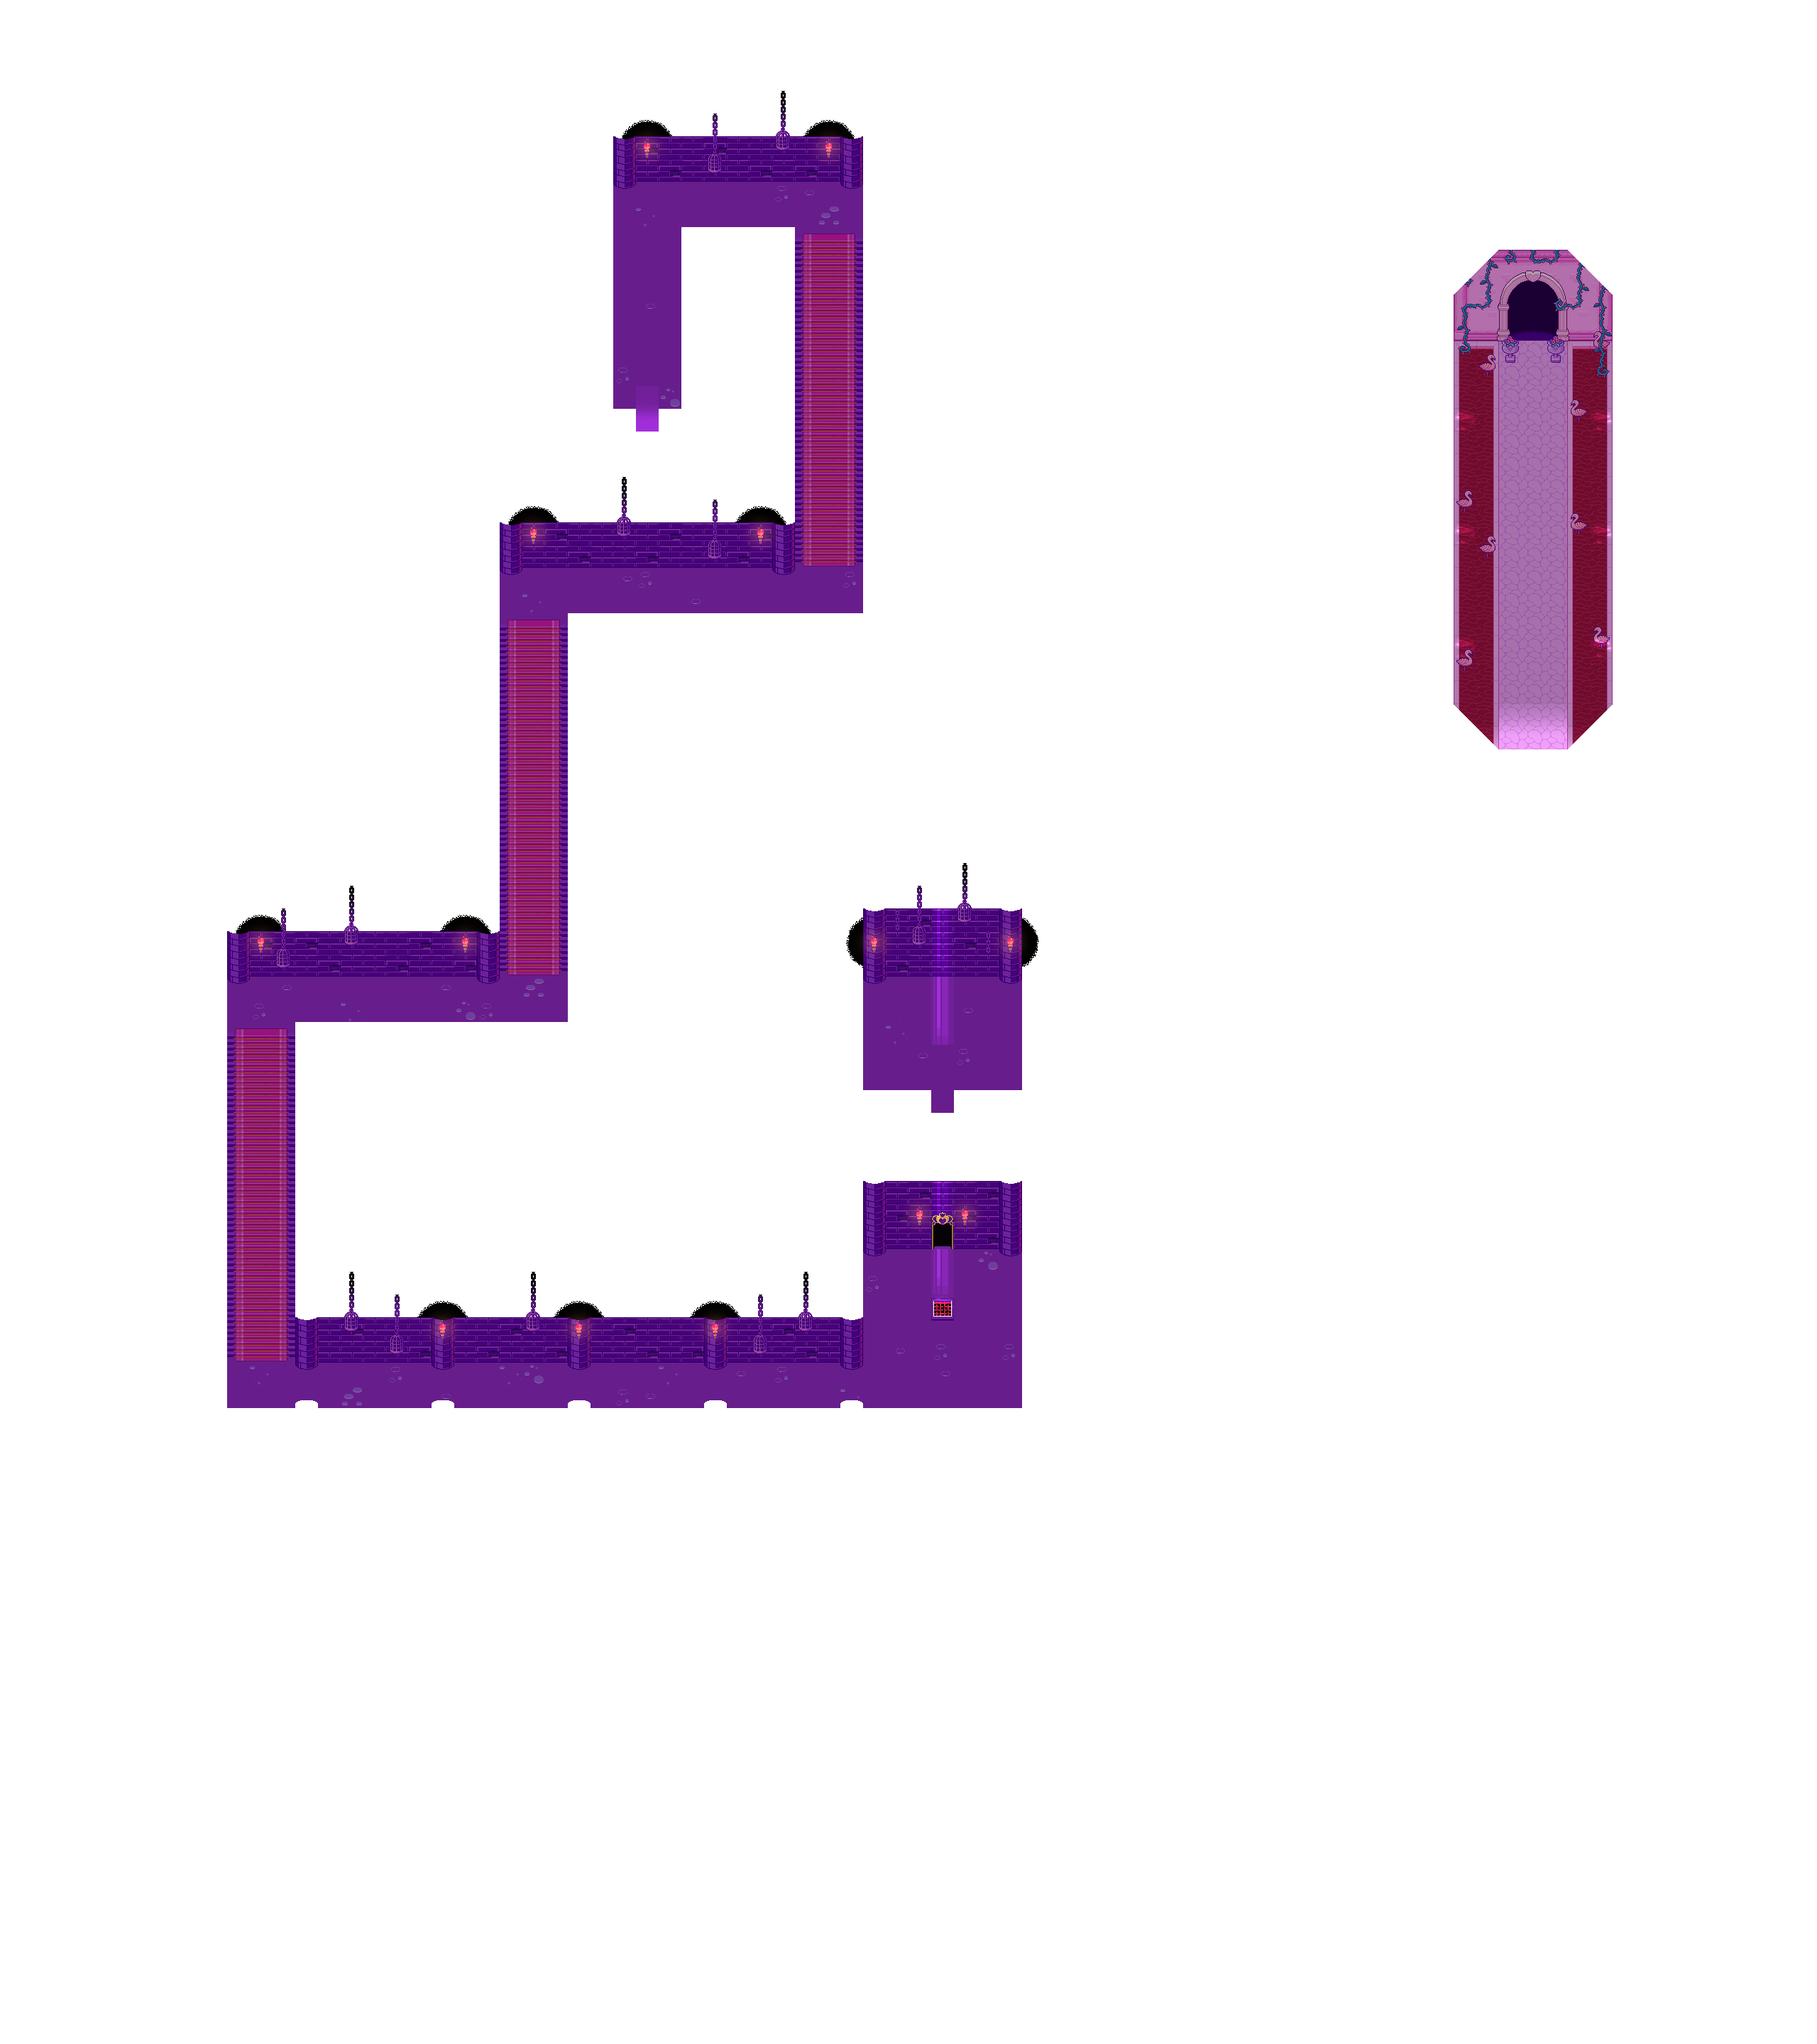
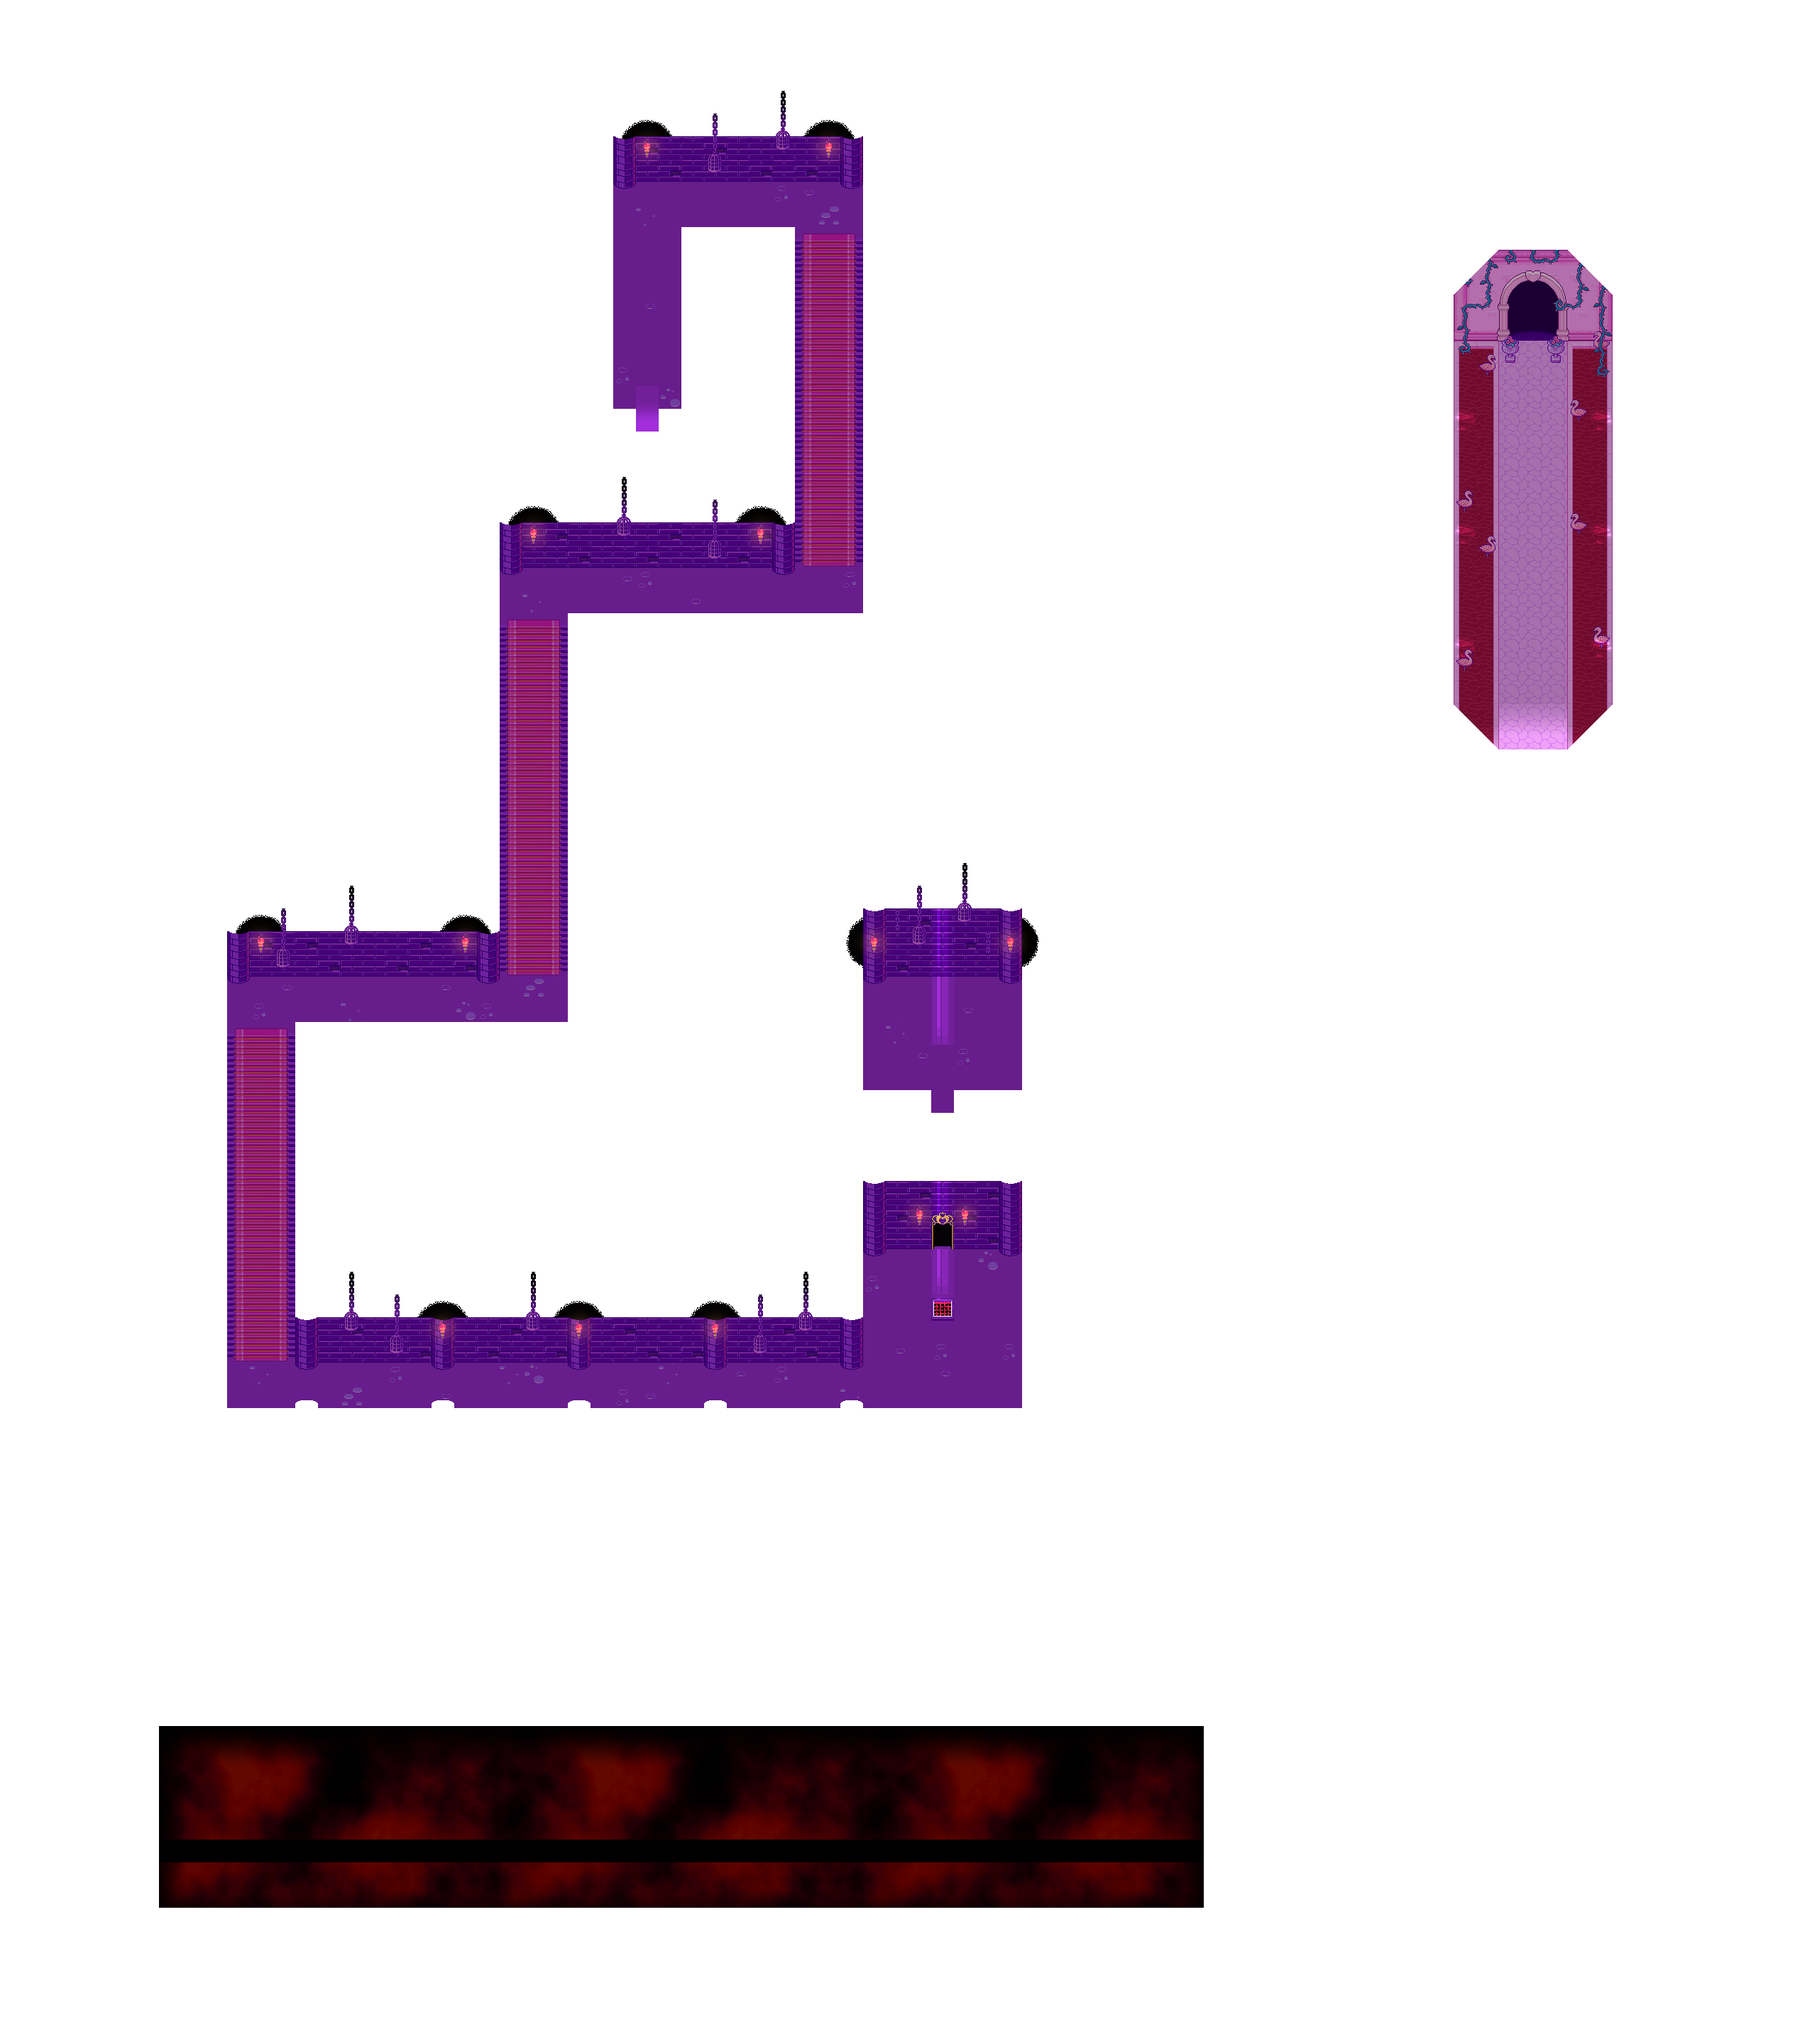
HEAVEN and HELL, the two rooms nobody could find
Someone reported two maps missing. There is no map in OMORI called either — the
name comes from the event. Map435 ev6 is called 'Heaven and Hell' in the game's
own data: stand on the red dais at (41, 57), inside the slice the atlas already
had, and six seconds later you are in a dark red corridor at the bottom of the
same map, six more and you are in a white one in map438. ev7 at (53, 81) walks
you back.

Two things had to go wrong at once for these to vanish, which is why nothing
looked broken. They are drawn by the maps' parallax rather than by tiles, so
goats.dev's tile renders have nothing there at all — map435's render is 10%
covered and that rectangle is 100% empty. And no slice was ever cut over them,
so even a correct render would not have reached the atlas.

45_render_missing_rooms.py draws them. 13 can, because it reads the game's data
and tiles the parallax underneath — but across the whole canvas, so its output
is opaque everywhere and cannot replace a render whose transparency is what
holds the rooms apart. 18 would clear the surplus and clears HELL with it, dark
enough to read as backdrop. So only the two rectangles are taken, composited
*under* what the render already has, which makes it safe to re-run.

The slices are 4354 and 4382, 46x8 and 46x9 tiles, in sweethearts_castle where
their parents are. The edge extractor picks the connection up on its own: ev6
now resolves to map4354 and map4382 instead of the unsliced parents.
[…]

Changed region(s): [[0.0625, 0.8438, 0.6875, 0.9375]]

diff --git a/scripts/01_extract_adjacency.js b/scripts/01_extract_adjacency.js
@@ -783,6 +783,13 @@ const PATCHES = {
       4351: { src: 435, name: '[dungeon main]', polygon: [[10,4],[45,4],[45,62],[10,62]] },
       4352: { src: 435, name: '[right corridor]', polygon: [[64,11],[71,11],[71,33],[64,33]] },
       4353: { src: 435, name: '[bottom small]',   polygon: [[37,38],[46,38],[46,49],[37,49]] },
+      // The easter egg. Stand on the red dais at (41, 57) — inside 4351 — for
+      // about six seconds and ev6, named 'Heaven and Hell', walks you through
+      // two corridors: this one first, then map438's. Neither is in goats.dev's
+      // render, because both are drawn by the map's parallax rather than by
+      // tiles, and neither had a slice, which is why the atlas had no trace of
+      // either. ev7 at (53, 81) is the way back to the dais.
+      4354: { src: 435, name: '[hell]', polygon: [[7,76],[53,76],[53,84],[7,84]] },
       // Map437 ALCOVES II — 9 main alcoves (skip noise alcove 7)
       4372: { src: 437, name: '[alcove 2]', polygon: [[26,3],[34,3],[34,16],[26,16]] },
       4375: { src: 437, name: '[alcove 5]', polygon: [[27,25],[34,25],[34,38],[27,38]] },
@@ -790,6 +797,8 @@ const PATCHES = {
       4378: { src: 437, name: '[alcove 9]', polygon: [[27,48],[34,48],[34,61],[27,61]] },
       // Map438 SWEETHEART DUNGEON 3 — 1 main room
       4381: { src: 438, name: '[main room]', polygon: [[7,6],[30,6],[30,17],[7,17]] },
+      // The other half of map435's 'Heaven and Hell', arrived at second.
+      4382: { src: 438, name: '[heaven]', polygon: [[7,30],[53,30],[53,39],[7,39]] },
       // Map453 CLUB SANDWICH room atlas — this room is reached from Map175 'Face Wall'.
       4535: { src: 453, name: '[jam packets room]', polygon: [[30,31],[37,31],[37,41],[30,41]] },
     },

diff --git a/scripts/45_render_missing_rooms.py b/scripts/45_render_missing_rooms.py
@@ -1,0 +1,103 @@
+#!/usr/bin/env python3
+"""Draw rooms into a render that arrived without them.
+
+goats.dev's renders are tile renders. A room OMORI draws with a *parallax* —
+the image the engine tiles underneath the tile layers — therefore comes out
+empty, and if nothing else in that room is a tile, the render has a hole where
+the room is and no sign that anything is missing.
+
+SWEETHEART DUNGEON 2 and 3 each hide one that way. The red dais at map435
+(41, 57) starts ev6, named 'Heaven and Hell' in the game's own data, which
+walks you through a dark red corridor at the bottom of map435 and then a white
+one in map438. Both are parallax; both were absent from the render; neither had
+a slice cut for it. The atlas had no trace of either until someone reported two
+missing maps.
+
+13_render_tiled_map.py can draw them, because it reads the game's own data and
+tiles the parallax underneath — but it tiles it across the *whole* canvas, so
+its output is opaque everywhere and cannot replace a render whose transparency
+is what keeps the rooms apart. 18_trim_black_bg.py would clear the surplus, and
+it clears these rooms with it: HELL is dark enough to read as backdrop.
+
+So only the named rectangles are taken, and only where the render is empty.
+Where both have pixels the render wins, which makes this safe to re-run and
+safe to point at a room that is half there.
+
+    python3 scripts/45_render_missing_rooms.py --dry-run
+    python3 scripts/45_render_missing_rooms.py
+"""
+import sys
+from pathlib import Path
+
+import numpy as np
+from PIL import Image
+
+ROOT = Path(__file__).resolve().parent.parent
+sys.path.insert(0, str(ROOT / 'scripts'))
+from _img import save  # noqa: E402
+
+Image.MAX_IMAGE_PIXELS = None
+RAW = ROOT / 'data' / 'raw_pngs'
+TILE = 32
+
+# (mapId, col0, row0, col1, row1, what it is). Inclusive tile bounds, taken
+# from where the self-render has light in it — see the module docstring.
+ROOMS = [
+    (435, 7, 76, 52, 83, "HELL — 'Heaven and Hell' first stop"),
+    (438, 7, 30, 52, 38, "HEAVEN — 'Heaven and Hell' second stop"),
+]
+
+
+def rendered(map_id, cache={}):
+    """map_id drawn from the game's own data, parallax and all."""
+    if map_id not in cache:
+        g = {'__name__': 'imported',
+             '__file__': str(ROOT / 'scripts/13_render_tiled_map.py')}
+        exec(compile((ROOT / 'scripts/13_render_tiled_map.py').read_text(),
+                     'r13', 'exec'), g)
+        scratch = ROOT / 'data' / 'raw_pngs' / '.render-cache'
+        scratch.mkdir(exist_ok=True)
+        g['OUT_DIR'] = scratch
+        g['render_map'](map_id)
+        out = next(scratch.glob(f'map{map_id}.*'))
+        cache[map_id] = Image.open(out).convert('RGBA').copy()
+        out.unlink()
+    return cache[map_id]
+
+
+def main(argv):
+    dry = '--dry-run' in argv
+    for map_id, c0, r0, c1, r1, what in ROOMS:
+        target = next(iter(RAW.glob(f'map{map_id}.*')), None)
+        if target is None:
+            print(f'  ⚠ no render for map{map_id}', file=sys.stderr)
+            continue
+        dst = Image.open(target).convert('RGBA')
+        box = (c0 * TILE, r0 * TILE, (c1 + 1) * TILE, (r1 + 1) * TILE)
+        room = rendered(map_id).crop(box)
+
+        cur = np.asarray(dst.crop(box))
+        empty = cur[:, :, 3] <= 8
+        add = int((empty & (np.asarray(room)[:, :, 3] > 8)).sum())
+        print(f'  map{map_id} cols {c0}-{c1} rows {r0}-{r1}: '
+              f'{100 * empty.mean():.0f}% of that rectangle is empty, '
+              f'{add} pixel(s) to draw   [{what}]')
+        if dry or not add:
+            continue
+        # Under, not over: anything the render already has is the render's.
+        patch = dst.crop(box)
+        room = room.copy()
+        room.alpha_composite(patch)
+        dst.paste(room, box)
+        save(dst, target)
+        print(f'    ✓ {target.name}')
+
+    cache_dir = RAW / '.render-cache'
+    if cache_dir.exists() and not any(cache_dir.iterdir()):
+        cache_dir.rmdir()
+    if dry:
+        print('\n[dry run]')
+
+
+if __name__ == '__main__':
+    main(sys.argv[1:])
